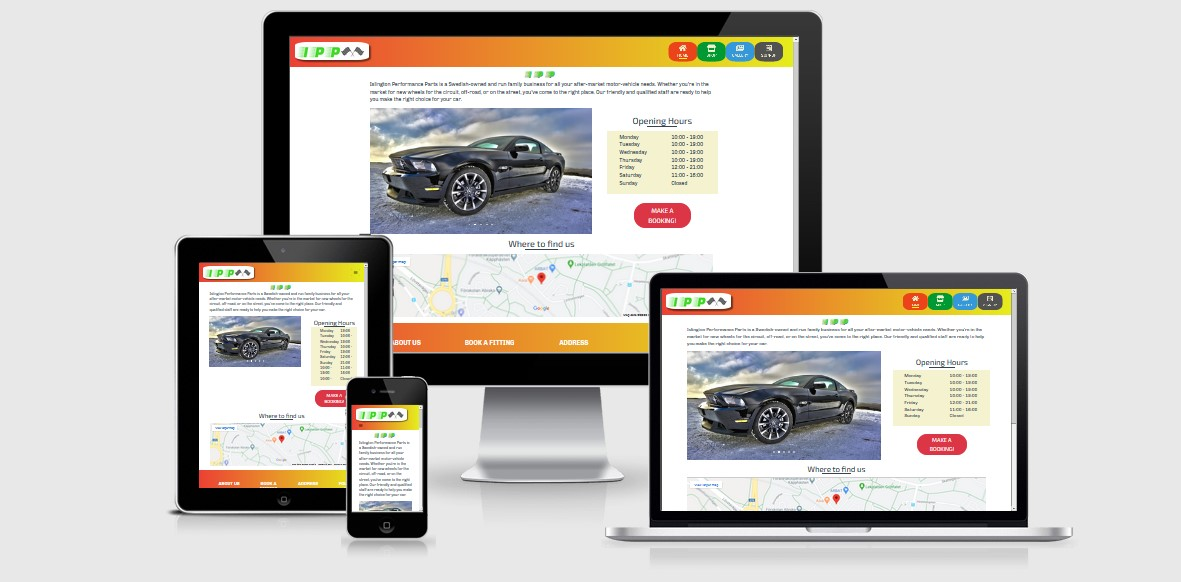
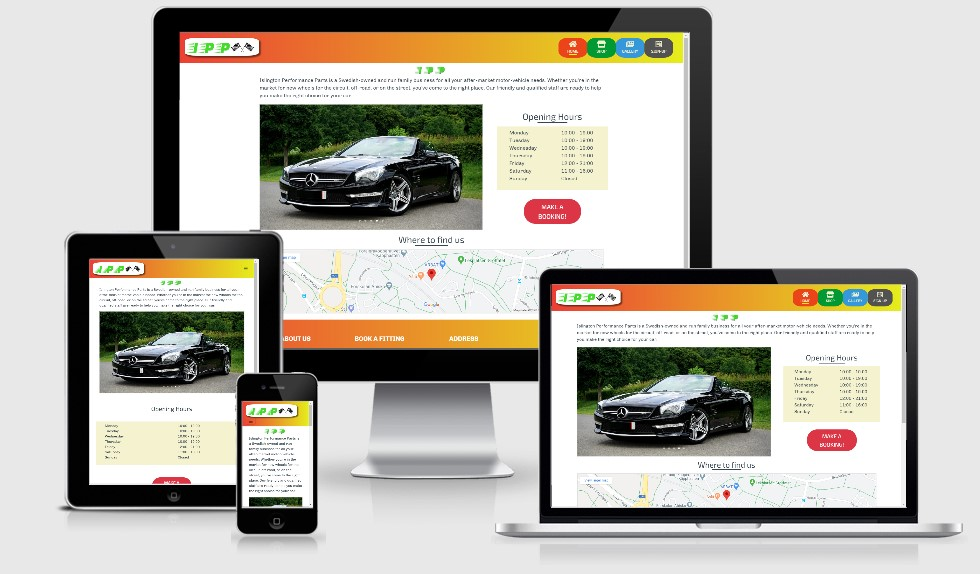
fixed column widths on medium screens for homepage

diff --git a/assets/css/style.css b/assets/css/style.css
@@ -69,6 +69,8 @@
 
 /*---------------------- Header/Navigation */
 
+
+
 /*--- logo ---*/
 .logo img {
  max-width: 233px;
@@ -402,6 +404,43 @@ input[type=number] {
     color: #36454f;
 
 }
+
+
+.sale {
+	position: relative;
+	display: inline-block;
+	background: orange;
+	color: white;
+	height: 2.5rem;
+	width: 2.5rem;
+	text-align: center;
+	vertical-align: middle;
+	line-height: 2.5rem;
+	margin: 45vh 45vw;
+	transform: rotate(-20deg);
+	animation: beat 1s ease infinite alternate;
+	&:before,
+	&:after {
+		content:"";
+		position: absolute;
+		background: inherit;
+		height: inherit;
+		width: inherit;
+		top: 0;
+		left: 0;
+		z-index: -1;
+		transform: rotate(30deg);
+	}
+	&:after {
+		transform: rotate(60deg);
+	}
+}
+
+@keyframes beat {
+	from {	transform: rotate(-20deg) scale(1); }
+	to {	transform: rotate(-20deg) scale(1.1); }
+}
+
 
 /*----------------------- Gallery */
 

diff --git a/index.html b/index.html
@@ -117,7 +117,7 @@
         </div>
       </div>
       <div class="row justify-content-md-center">
-        <div class="col-md-8">
+        <div class="col-lg-8">
           <!-- carousel -->
           <div class="col container-fluid extend">
             <div
@@ -178,7 +178,7 @@
           </div>
         </div>
 
-        <div class="col-md-4">
+        <div class="col-lg-4">
           <!-- opening hours -->
           <h3 class="shop-heading">Opening Hours</h3>
           <div class="bg-shop">
